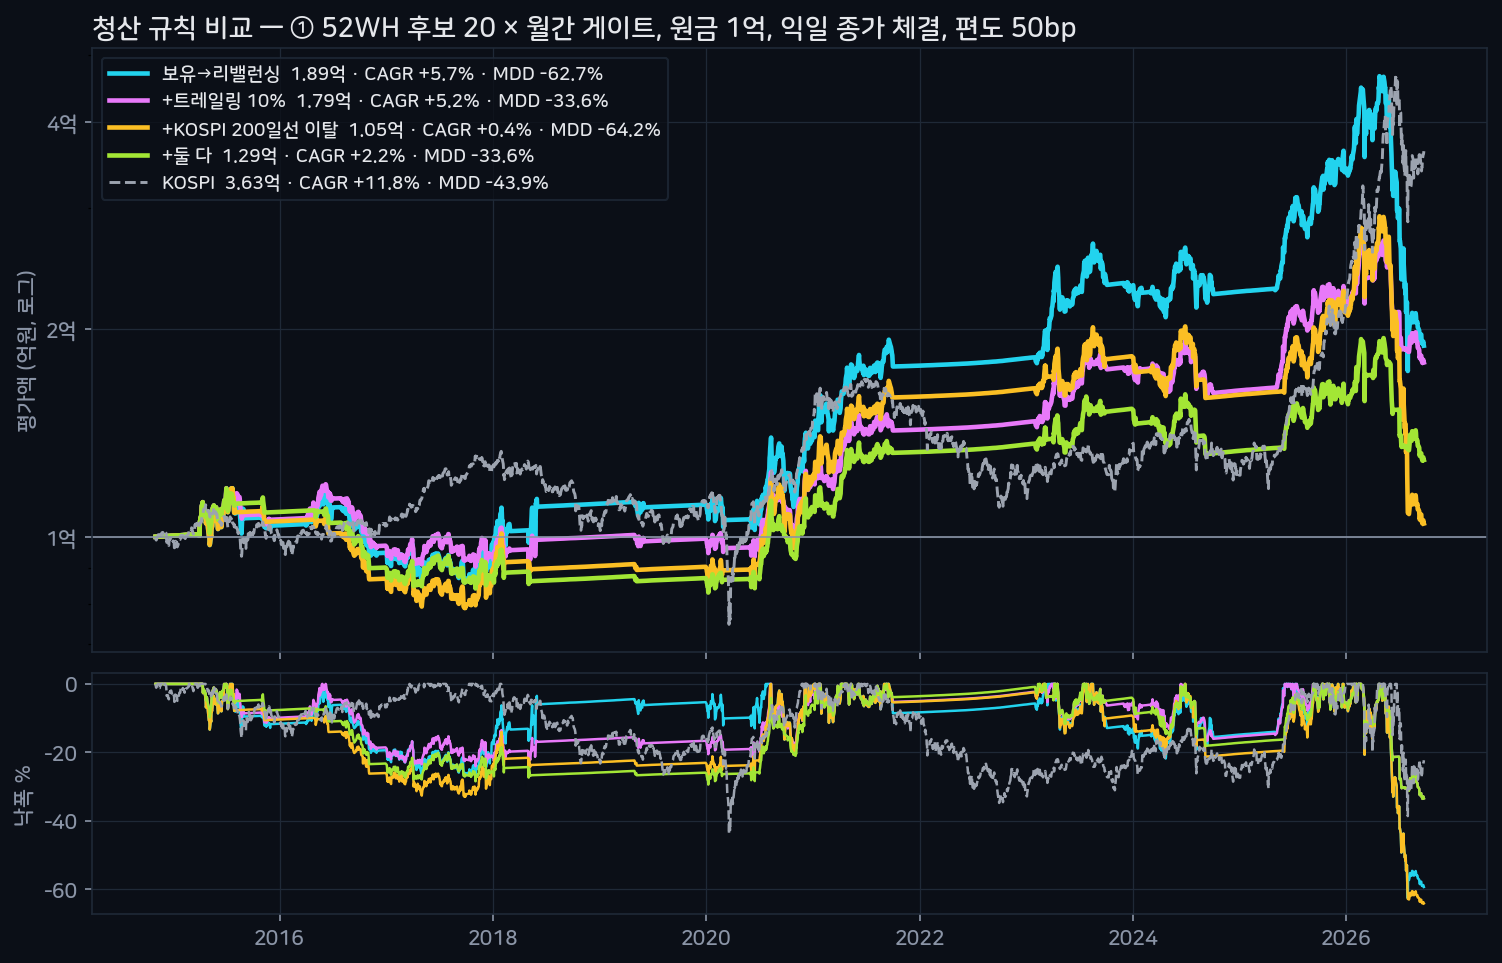
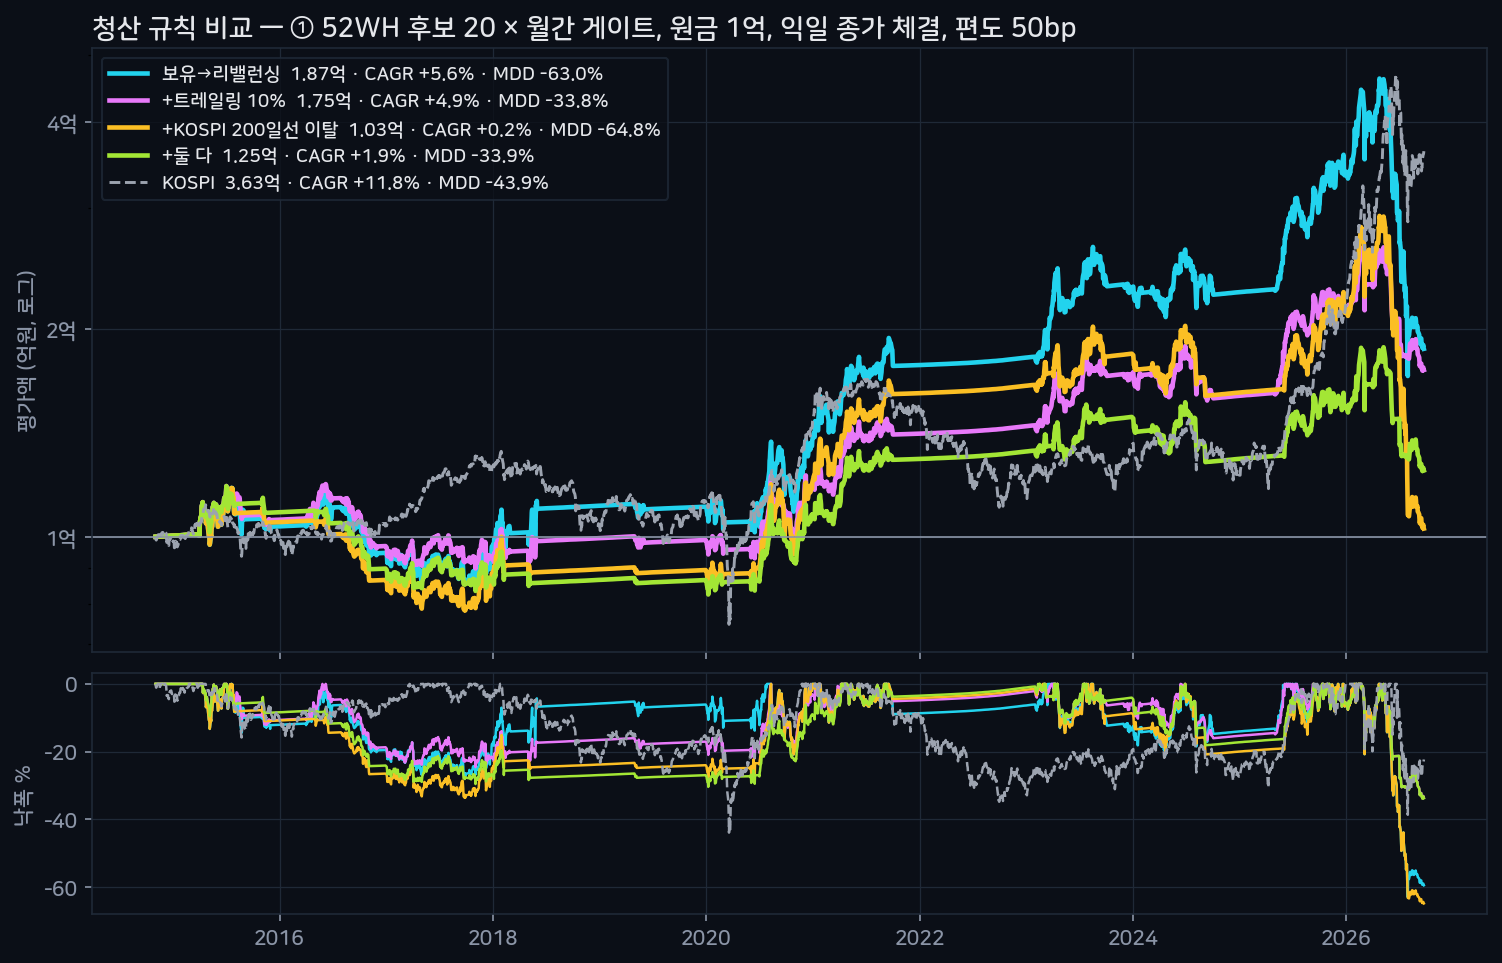
exit_sim: 신규 매수 균등 배분(순서 비결정성 제거), 트레일링 경계 허용오차, 과거 비교 재생성

diff --git a/forward/exit_sim.py b/forward/exit_sim.py
@@ -53,13 +53,12 @@ def simulate(book: list[dict], ra: pd.DataFrame, kospi: pd.Series, rf_m: pd.Seri
                 tgt = set()                          # 왜: 위험 구간에 재진입하면 다음날 바로 청산되는 왕복 비용만 발생
             for t in [t for t in pos if t not in tgt]:
                 cash += pos.pop(t)[0] * (1 - COST_BP / 1e4)
-            new = [t for t in tgt if t not in pos]
+            new = sorted(t for t in tgt if t not in pos)
             total = cash + sum(v[0] for v in pos.values())
             per = total / len(tgt) if tgt else 0.0
-            for t in new:                           # 신규만 매수(계속 보유분은 무거래) — 현금 한도 내
-                amt = min(per, cash)
-                if amt <= 0:
-                    break
+            # 왜 균등 상한: 계속 보유분이 목표비중을 넘으면 현금이 모자람 → 신규끼리 균등 배분(순서 의존·해시 순서 비결정성 제거)
+            amt = min(per, cash / len(new)) if new else 0.0
+            for t in new:                           # 신규만 매수(계속 보유분은 무거래)
                 cash -= amt
                 pos[t] = [amt * (1 - COST_BP / 1e4)] * 2
             for t in pos:                            # 왜: 트레일링 기준은 이번 보유 구간의 고점부터
@@ -67,7 +66,7 @@ def simulate(book: list[dict], ra: pd.DataFrame, kospi: pd.Series, rf_m: pd.Seri
         else:                                       # 4) 청산 트리거 판정(당일 종가 기준 → 다음날 매도)
             if "stop" in rule:
                 for t, (v, pk) in pos.items():
-                    if v / pk - 1 <= -rule["stop"]:
+                    if v / pk - 1 <= -rule["stop"] + 1e-9:   # 왜 허용오차: 호가단위로 정확히 −10%인 날이 부동소수 순서에 따라 뒤집힘
                         pending_sell.add(t); log.append(dict(date=d, ticker=t, why=f"트레일링 {rule['stop']:.0%}"))
             if risk is not None and bool(risk.get(d, False)) and pos:
                 pending_sell |= set(pos); log.append(dict(date=d, ticker="ALL", why=f"KOSPI<{rule['ma']}일선"))
